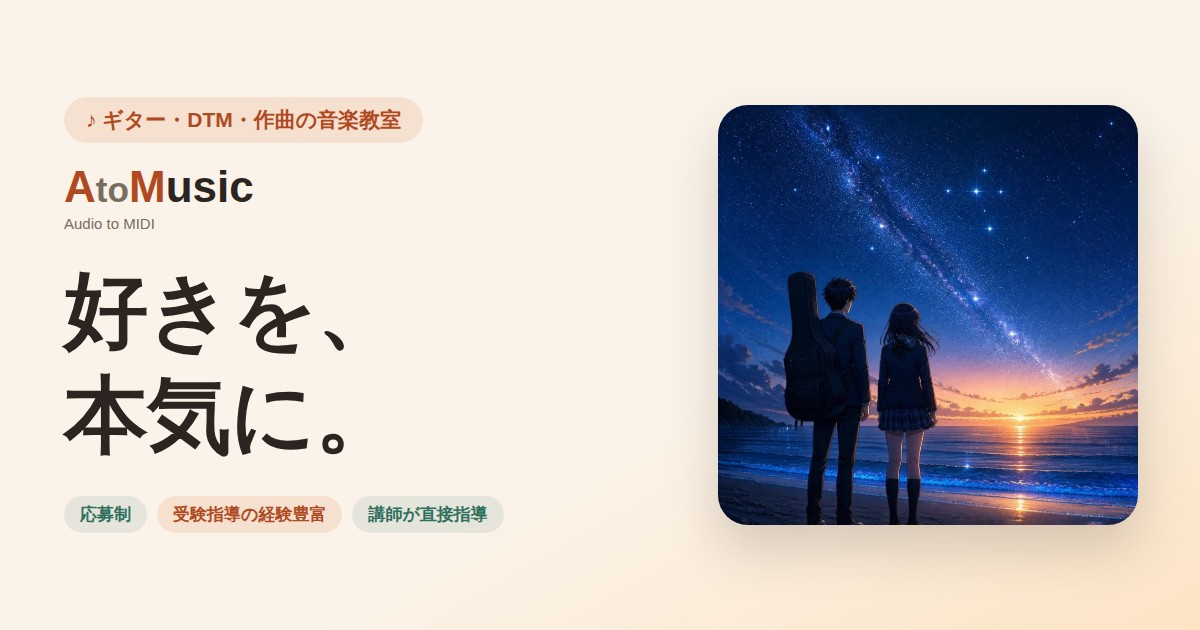
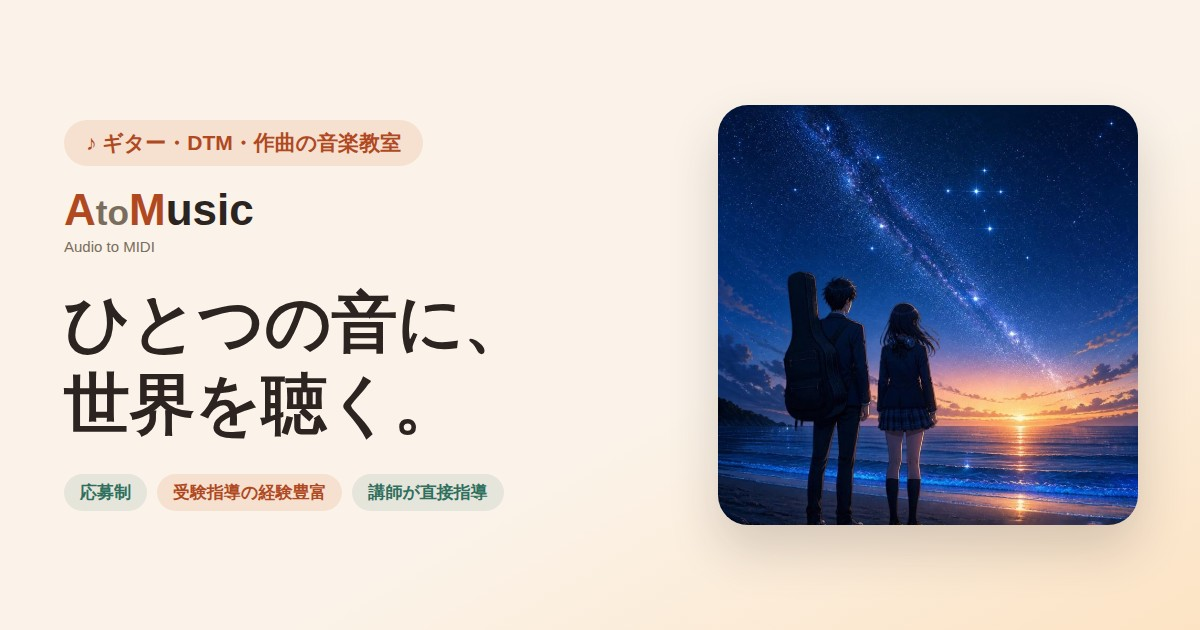
Change tagline to ひとつの音に、世界を聴く。
Claude-Session: https://claude.ai/code/session_01QkwvkPgcskAKWeJFDPMNMa

Changed region(s): [[0.0308, 0.1508, 0.4008, 0.7238], [0.0617, 0.754, 0.4317, 0.8444]]

diff --git a/index.html b/index.html
@@ -3,16 +3,16 @@
 <head>
 <meta charset="UTF-8">
 <meta name="viewport" content="width=device-width, initial-scale=1.0">
-<title>AtoMusic|音大作曲受験・ギター/DTM・作曲の音楽教室 — 好きを、本気に。</title>
+<title>AtoMusic|音大作曲受験・ギター/DTM・作曲の音楽教室 — ひとつの音に、世界を聴く。</title>
 <link rel="canonical" href="https://lesson.yasuhiro-otani.com/">
 <meta name="google-site-verification" content="Cz_oNCoUAV_eDPVdQA1OzURd6qGMMDDJEpsPD0sE338" />
 <meta name="description" content="音大・音楽系学部の作曲受験に向けて作曲の力を伸ばしたい人、相談できる相手がほしい人——本気で上を目指す人のための音楽教室「AtoMusic」。音楽大学で作曲を教える講師が、アイデア段階から完成間近まで、レベルに合わせて具体的にアドバイスします。">
 <link rel="icon" type="image/svg+xml" href="favicon.svg">
 <meta property="og:type" content="website">
-<meta property="og:title" content="AtoMusic — 好きを、本気に。">
+<meta property="og:title" content="AtoMusic — ひとつの音に、世界を聴く。">
 <meta property="og:description" content="受験に向けて作曲の力を伸ばしたい人、相談できる相手がほしい人——本気で上を目指す人のための音楽教室。講師は音楽大学で作曲を教えています。">
 <meta property="og:url" content="https://lesson.yasuhiro-otani.com/">
-<meta property="og:image" content="https://lesson.yasuhiro-otani.com/images/og-lesson.jpg?v=20261009b">
+<meta property="og:image" content="https://lesson.yasuhiro-otani.com/images/og-lesson.jpg?v=20261009c">
 <meta name="twitter:card" content="summary_large_image">
 <link rel="stylesheet" href="css/style.css?v=20261008h">
 </head>
@@ -43,7 +43,7 @@
   <div class="hero-grid">
     <div>
       <p class="hero-eyebrow">♪ ギター・DTM・作曲の音楽教室</p>
-      <h1>好きを、<br>本気に。</h1>
+      <h1>ひとつの音に、<br>世界を聴く。</h1>
       <p class="hero-desc">受験に向けて、作曲の力を伸ばしたい。相談できる相手がほしい。——本気で上を目指す人のための音楽教室です。音楽大学で作曲を教えている講師が、直接指導します。</p>
       <div class="waveform" aria-hidden="true"><span></span><span></span><span></span><span></span><span></span><span></span><span></span></div>
       <div class="badge-row">
@@ -299,7 +299,7 @@
   <section>
     <div class="cta-band">
       <p class="section-eyebrow" style="text-align:center;">お申し込み</p>
-      <h2 class="section-title">好きを、本気に。</h2>
+      <h2 class="section-title">ひとつの音に、<br>世界を聴く。</h2>
       <p class="lead" style="text-align:center;">今の状況・目標・ご都合をお問い合わせフォームよりお知らせください。まずは相談だけでも構いません。</p>
       <a class="btn primary" href="contact.html">お問い合わせフォーム →</a>
     </div>
